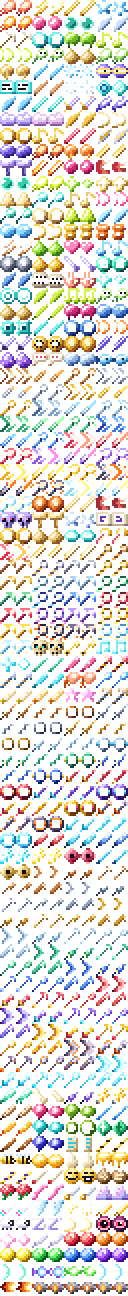
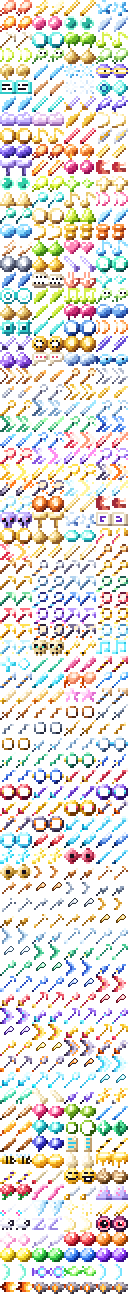
Wand bolts redrawn to the projectile art standard
The tiered wand shots were chunky 12-16 px slabs. Each is now a 10 px spark with
a diamond head and a short tail, in its tier's own colours. Gameplay is
unchanged: player shots hit by the item's size, and no enemy uses these
sprites. The art audit no longer flags atlas frames (player shots draw one
still frame).

diff --git a/src/data/shot_boxes.js b/src/data/shot_boxes.js
@@ -368,17 +368,17 @@ export const SHOT_BOXES = {
[28 lines of base64/hex data omitted]

diff --git a/docs/overhaul_checklist.md b/docs/overhaul_checklist.md
@@ -13,6 +13,7 @@ Baseline: commit a0e0b20, all 22 `tools/check_*.mjs` passing.
 | Art | The treasure chest looked like a hamburger (rounded bun lid, a yellow "cheese" band, no outline or planks) | Placeholder-quality art | Redrawn closed and open: outlined plank chest, metal straps, lock plate with keyhole; the open one shows coins (`tools/art_chest.mjs`) | 8x crops; only the two chest cells of the atlas changed |
 | Art | Every player shot was resampled (drawn at 0.875x, "big" ones 1.3x), cycled two frames, and left trail pixels | Renderer | Player shots drawn 1:1, one still frame, no trail (docs/projectile_art_standard.md) | Test tab; hitbox check |
 
+| Art | Wand shots were chunky diagonal slabs (12-16 px long, 4-5 px thick), heavier than sword cuts; bigger still once player shots stopped being shrunk | Old art | All 11 tiered wand bolts redrawn: a 10 px spark, diamond head with a 2 px bright core and a short tail, each tier in its own four main colours (`tools/art_wand_shots.mjs`; the old ones kept in art/world/_old_wand_bolts.png). Range and hitbox unchanged: a player shot hits by the item's `size`, not its art; no enemy uses these sprites | 8x crops; `audit_shots` passes all 11; only the 22 wand cells changed; hitbox check |
 | Tests | `check_remaster_ext` failed at random (about 1 run in 4) | Its realm monsters fire on unseeded randomness | Seeded | 3 of 3 identical runs |
 
 ## Found working (tested end to end)
@@ -30,7 +31,7 @@ Baseline: commit a0e0b20, all 22 `tools/check_*.mjs` passing.
   your inventory.
 
 ## To do (next sessions)
-- Wand shots too large; projectile sizes across enemies and abilities against the art standard.
+- Projectile sizes across enemies and abilities against the art standard (the weapons are part of the item rework).
 - Sprite audit beyond the chest: loot bags, NPCs, dungeon styles, placeholder art.
 - Every NPC outside the Nexus (dungeon interactables, portals, waypoints).
 - Performance profiling in the heaviest bullet-hell fights.
